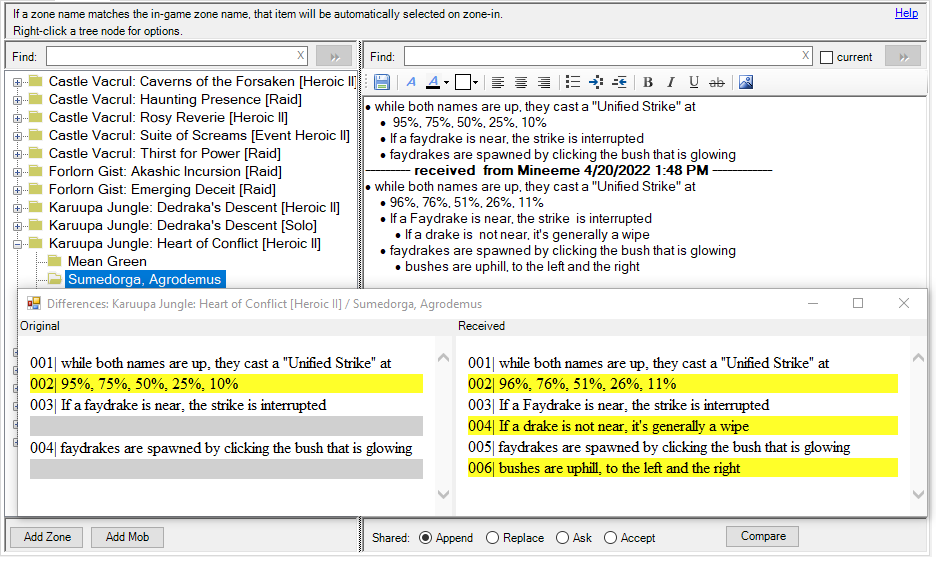
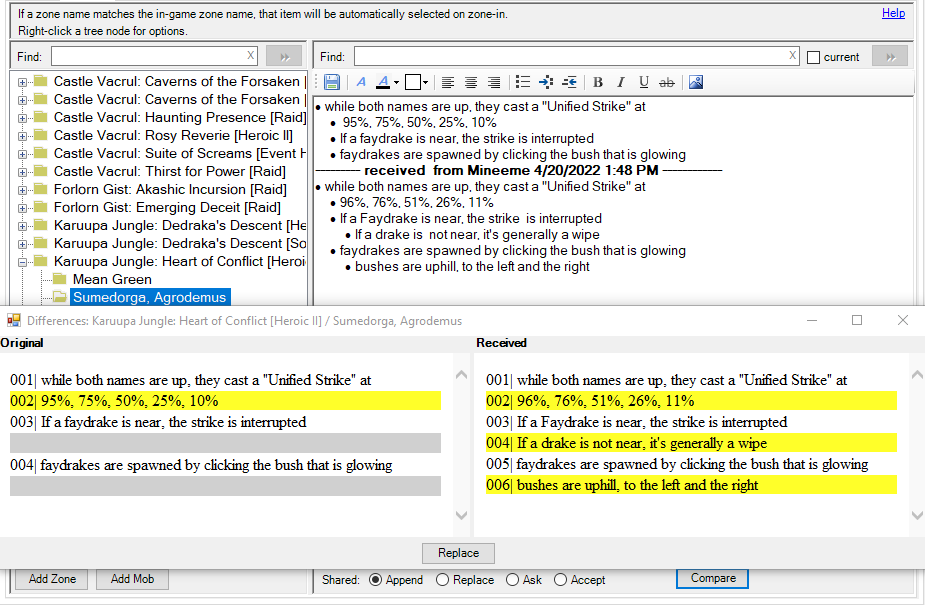
add [Replace] button to compare dialog

diff --git a/Differences.Designer.cs b/Differences.Designer.cs
@@ -28,15 +28,20 @@
         /// </summary>
         private void InitializeComponent()
         {
+            this.components = new System.ComponentModel.Container();
             this.splitContainer1 = new System.Windows.Forms.SplitContainer();
             this.webBrowser1 = new System.Windows.Forms.WebBrowser();
             this.labelOrig = new System.Windows.Forms.Label();
             this.webBrowser2 = new System.Windows.Forms.WebBrowser();
             this.labelReceived = new System.Windows.Forms.Label();
+            this.panel1 = new System.Windows.Forms.Panel();
+            this.buttonRepalce = new System.Windows.Forms.Button();
+            this.toolTip1 = new System.Windows.Forms.ToolTip(this.components);
             ((System.ComponentModel.ISupportInitialize)(this.splitContainer1)).BeginInit();
             this.splitContainer1.Panel1.SuspendLayout();
             this.splitContainer1.Panel2.SuspendLayout();
             this.splitContainer1.SuspendLayout();
+            this.panel1.SuspendLayout();
             this.SuspendLayout();
             // 
             // splitContainer1
@@ -54,7 +59,7 @@
             // 
             this.splitContainer1.Panel2.Controls.Add(this.webBrowser2);
             this.splitContainer1.Panel2.Controls.Add(this.labelReceived);
-            this.splitContainer1.Size = new System.Drawing.Size(800, 450);
+            this.splitContainer1.Size = new System.Drawing.Size(800, 418);
             this.splitContainer1.SplitterDistance = 382;
             this.splitContainer1.TabIndex = 0;
             // 
@@ -66,7 +71,7 @@
             this.webBrowser1.Location = new System.Drawing.Point(0, 13);
             this.webBrowser1.MinimumSize = new System.Drawing.Size(20, 20);
             this.webBrowser1.Name = "webBrowser1";
-            this.webBrowser1.Size = new System.Drawing.Size(382, 437);
+            this.webBrowser1.Size = new System.Drawing.Size(382, 405);
             this.webBrowser1.TabIndex = 0;
             this.webBrowser1.WebBrowserShortcutsEnabled = false;
             // 
@@ -74,9 +79,10 @@
             // 
             this.labelOrig.AutoSize = true;
             this.labelOrig.Dock = System.Windows.Forms.DockStyle.Top;
+            this.labelOrig.Font = new System.Drawing.Font("Microsoft Sans Serif", 8.25F, System.Drawing.FontStyle.Bold, System.Drawing.GraphicsUnit.Point, ((byte)(0)));
             this.labelOrig.Location = new System.Drawing.Point(0, 0);
             this.labelOrig.Name = "labelOrig";
-            this.labelOrig.Size = new System.Drawing.Size(42, 13);
+            this.labelOrig.Size = new System.Drawing.Size(50, 13);
             this.labelOrig.TabIndex = 1;
             this.labelOrig.Text = "Original";
             // 
@@ -89,7 +95,7 @@
             this.webBrowser2.Location = new System.Drawing.Point(0, 13);
             this.webBrowser2.MinimumSize = new System.Drawing.Size(20, 20);
             this.webBrowser2.Name = "webBrowser2";
-            this.webBrowser2.Size = new System.Drawing.Size(414, 437);
+            this.webBrowser2.Size = new System.Drawing.Size(414, 405);
             this.webBrowser2.TabIndex = 0;
             this.webBrowser2.WebBrowserShortcutsEnabled = false;
             // 
@@ -97,11 +103,34 @@
             // 
             this.labelReceived.AutoSize = true;
             this.labelReceived.Dock = System.Windows.Forms.DockStyle.Top;
+            this.labelReceived.Font = new System.Drawing.Font("Microsoft Sans Serif", 8.25F, System.Drawing.FontStyle.Bold, System.Drawing.GraphicsUnit.Point, ((byte)(0)));
             this.labelReceived.Location = new System.Drawing.Point(0, 0);
             this.labelReceived.Name = "labelReceived";
-            this.labelReceived.Size = new System.Drawing.Size(53, 13);
+            this.labelReceived.Size = new System.Drawing.Size(61, 13);
             this.labelReceived.TabIndex = 1;
             this.labelReceived.Text = "Received";
+            // 
+            // panel1
+            // 
+            this.panel1.Controls.Add(this.buttonRepalce);
+            this.panel1.Dock = System.Windows.Forms.DockStyle.Bottom;
+            this.panel1.Location = new System.Drawing.Point(0, 418);
+            this.panel1.Name = "panel1";
+            this.panel1.Size = new System.Drawing.Size(800, 32);
+            this.panel1.TabIndex = 1;
+            // 
+            // buttonRepalce
+            // 
+            this.buttonRepalce.Anchor = System.Windows.Forms.AnchorStyles.None;
+            this.buttonRepalce.DialogResult = System.Windows.Forms.DialogResult.OK;
+            this.buttonRepalce.Location = new System.Drawing.Point(359, 5);
+            this.buttonRepalce.Name = "buttonRepalce";
+            this.buttonRepalce.Size = new System.Drawing.Size(75, 23);
+            this.buttonRepalce.TabIndex = 0;
+            this.buttonRepalce.Text = "Replace";
+            this.toolTip1.SetToolTip(this.buttonRepalce, "Replace Original with Received");
+            this.buttonRepalce.UseVisualStyleBackColor = true;
+            this.buttonRepalce.Click += new System.EventHandler(this.buttonRepalce_Click);
             // 
             // Differences
             // 
@@ -109,6 +138,7 @@
             this.AutoScaleMode = System.Windows.Forms.AutoScaleMode.Font;
             this.ClientSize = new System.Drawing.Size(800, 450);
             this.Controls.Add(this.splitContainer1);
+            this.Controls.Add(this.panel1);
             this.Name = "Differences";
             this.Text = "Differences";
             this.Shown += new System.EventHandler(this.Differences_Shown);
@@ -118,6 +148,7 @@
             this.splitContainer1.Panel2.PerformLayout();
             ((System.ComponentModel.ISupportInitialize)(this.splitContainer1)).EndInit();
             this.splitContainer1.ResumeLayout(false);
+            this.panel1.ResumeLayout(false);
             this.ResumeLayout(false);
 
         }
@@ -129,5 +160,8 @@
         private System.Windows.Forms.WebBrowser webBrowser2;
         private System.Windows.Forms.Label labelOrig;
         private System.Windows.Forms.Label labelReceived;
+        private System.Windows.Forms.Panel panel1;
+        private System.Windows.Forms.Button buttonRepalce;
+        private System.Windows.Forms.ToolTip toolTip1;
     }
 }

diff --git a/Notes.cs b/Notes.cs
@@ -785,7 +785,7 @@ namespace ACT_Notes
                     treeViewZones.SelectedNode.EnsureVisible();
                 }
                 else
-                    SimpleMessageBox.Show(ActGlobals.oFormActMain, "Not found", "Find");
+                    SimpleMessageBox.ShowDialog(ActGlobals.oFormActMain, $"\\b {textBoxZoneFind.Text}\\b0  Not found", "Find");
             }
         }
 
@@ -801,7 +801,7 @@ namespace ACT_Notes
                 treeViewZones.SelectedNode.EnsureVisible();
             }
             else
-                SimpleMessageBox.Show(ActGlobals.oFormActMain, "No more found", "Find");
+                SimpleMessageBox.ShowDialog(ActGlobals.oFormActMain, $"\\b {textBoxZoneFind.Text}\\b0  Not found", "Find");
 
         }
 
@@ -1916,19 +1916,44 @@ namespace ACT_Notes
                 }
             }
 
-            string textA = string.Join("\n", orig.ToArray());
-            string textB = string.Join("\n", paste.ToArray());
-            List<string> html = Differences.DiffHtml(textA, textB);
-            if(html.Count == 2)
+            if(orig.Count > 0 && paste.Count > 0)
             {
-                Differences diff = new Differences(ActGlobals.oFormActMain, html[0], html[1]);
-                if (treeViewZones.SelectedNode != null)
+                string textA = string.Join("\n", orig.ToArray());
+                string textB = string.Join("\n", paste.ToArray());
+                List<string> html = Differences.DiffHtml(textA, textB);
+                if (html.Count == 2)
                 {
-                    if (treeViewZones.SelectedNode.Parent != null)
-                        diff.Text = $"Differences: {treeViewZones.SelectedNode.Parent.Text} / {treeViewZones.SelectedNode.Text}";
+                    Differences diff = new Differences(ActGlobals.oFormActMain, html[0], html[1]);
+                    if (treeViewZones.SelectedNode != null)
+                    {
+                        if (treeViewZones.SelectedNode.Parent != null)
+                            diff.Text = $"Differences: {treeViewZones.SelectedNode.Parent.Text} / {treeViewZones.SelectedNode.Text}";
+                    }
+                    diff.OnReplace += Diff_OnReplace;
+                    diff.Show();
                 }
-                diff.Show();
-                PositionChildForm(diff, ActGlobals.oFormActMain.Location);
+            }
+        }
+
+        private void Diff_OnReplace(object sender, EventArgs e)
+        {
+            RichTextBox rtbOrig = new RichTextBox();
+            rtbOrig.Rtf = richEditCtrl1.rtbDoc.Rtf;
+            int index = rtbOrig.Find(pastePrefix);
+            if(index != -1)
+            {
+                rtbOrig.Select(index, rtbOrig.Text.Length - index);
+                string save = rtbOrig.SelectedRtf;
+                rtbOrig.Rtf = save;
+                // delete the first line, the delimeter
+                rtbOrig.SelectionStart = 0;
+                rtbOrig.SelectionLength = rtbOrig.Lines[0].Length + 1; // +1 for the \n
+                rtbOrig.SelectedText = "";
+                // copy the result to the displayed editor
+                richEditCtrl1.rtbDoc.Rtf = rtbOrig.Rtf;
+
+                if(rtbOrig.Find(pastePrefix) == -1)
+                    buttonCompare.Enabled = false;
             }
         }
 

diff --git a/Differences.cs b/Differences.cs
@@ -13,6 +13,7 @@ namespace ACT_Notes
 {
     public partial class Differences : Form
     {
+        public event EventHandler OnReplace;
         string _left;
         string _right;
 
@@ -31,8 +32,11 @@ namespace ACT_Notes
             webBrowser2.DocumentText = _right;
             if (Owner != null)
             {
-                Point p = new Point(Owner.Left + Owner.Width / 2 - this.Width / 2, Owner.Top + Owner.Height / 2 - this.Height / 2);
+                this.Width = Owner.Width;
+                this.Height = Owner.Height / 2;
+                Point p = new Point(Owner.Left, Owner.Top + Owner.Height / 2  - 36); //36 is height of plugin's [Compare] panel
                 this.Location = p;
+                splitContainer1.SplitterDistance = this.Width / 2;
             }
             this.TopMost = true;
         }
@@ -140,6 +144,11 @@ namespace ACT_Notes
             return result;
         }
 
-
+        private void buttonRepalce_Click(object sender, EventArgs e)
+        {
+            if(OnReplace != null)
+                OnReplace.Invoke(this, new EventArgs());
+            Close();
+        }
     }
 }
